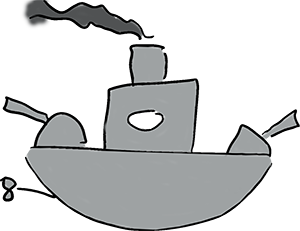
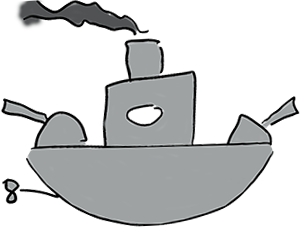
Fixed a better ocean and removed not needed images

Changed region(s): [[0.0, 0.0, 1.0, 1.0], [0.42, 0.4317, 0.57, 0.5859]]

diff --git a/SubGame/Level1.cs b/SubGame/Level1.cs
@@ -24,7 +24,8 @@ namespace SubGame
         // Set the speed of the background movement.
         private Vector2 myBackgroundSpeed = new Vector2(120, 0); //120 = speed of movement
 
-        private AnimatedBackground[] myOceans = new AnimatedBackground[7];
+        //private AnimatedBackground[] myOceans = new AnimatedBackground[7];
+        private StaticElement ocean;
 
         // All the new
         private readonly int surfaceLevel = 280;
@@ -51,13 +52,14 @@ namespace SubGame
         {
             //All the old, should be replaced with better functionality
             // Instantiate a new AnimatedBackground object for each element in the oceans array and set scale for the size of each
-            for (int i = 0; i < myOceans.Length; i++)
-            {
-                myOceans[i] = new AnimatedBackground(0.5f);
-            }
+            //for (int i = 0; i < myOceans.Length; i++)
+            //{
+            //    myOceans[i] = new AnimatedBackground(0.5f);
+            //}
 
             // All the new
             mySkies = new List<SkyElement>();
+            ocean = new StaticElement(1.0f, 0.0f, new Vector2(0, surfaceLevel));
             myBoat = new PlayerElement(1.0f, 0.01f, 0.0f, 1.5f, new Vector2(0, surfaceLevel), myGraphics);
             mySubs = new List<EnemyElement>();
             for (int i = 0; i < 3; i++)
@@ -78,13 +80,14 @@ namespace SubGame
             //All the old, should be replaced with better functionality
 
             // Load all the oceans images by calling the AnimatedBackground.LoadContent for each one of them
-            for (int i = 0; i < myOceans.Length; i++)
-            {
-                LoadBackground(myOceans[i], "Backgrounds/Ocean",
-                    new Vector2(i == 0 ? 0.0f : myOceans[i - 1].AccessPosition.X + myOceans[i - 1].AccessSize.Width, surfaceLevel));
-            }
+            //for (int i = 0; i < myOceans.Length; i++)
+            //{
+            //    LoadBackground(myOceans[i], "Backgrounds/Ocean",
+            //        new Vector2(i == 0 ? 0.0f : myOceans[i - 1].AccessPosition.X + myOceans[i - 1].AccessSize.Width, surfaceLevel));
+            //}
 
             // All the new
+            ocean.LoadContent(Content, "Backgrounds/SolidOcean");
             foreach (var sub in mySubs)
             {
                 sub.LoadContent(Content, new string[] { "Elements/SlowSub", "Elements/MediumSub", "Elements/FastSub" }, "Elements/Mine");
@@ -107,27 +110,28 @@ namespace SubGame
             }
 
             //All the old, should be replaced with better functionality
-            for (int target = 0; target < myOceans.Length; target++)
-            {
-                int tempSource = myOceans.Length - 1;
-                if (target > 0)
-                {
-                    tempSource = target - 1;
-                }
+            //for (int target = 0; target < myOceans.Length; target++)
+            //{
+            //    int tempSource = myOceans.Length - 1;
+            //    if (target > 0)
+            //    {
+            //        tempSource = target - 1;
+            //    }
 
-                if (myOceans[target].AccessPosition.X < -myOceans[target].AccessSize.Width)
-                {
-                    myOceans[target].AccessPosition = new Vector2(myOceans[tempSource].AccessPosition.X + myOceans[tempSource].AccessSize.Width,
-                        myOceans[target].AccessPosition.Y);
-                }
-            }
+            //    if (myOceans[target].AccessPosition.X < -myOceans[target].AccessSize.Width)
+            //    {
+            //        myOceans[target].AccessPosition = new Vector2(myOceans[tempSource].AccessPosition.X + myOceans[tempSource].AccessSize.Width,
+            //            myOceans[target].AccessPosition.Y);
+            //    }
+            //}
 
-            for (int i = 0; i < myOceans.Length; i++)
-            {
-                myOceans[i].AccessPosition += myGameDirection * myBackgroundSpeed * (float)aGameTime.ElapsedGameTime.TotalSeconds;
-            }
+            //for (int i = 0; i < myOceans.Length; i++)
+            //{
+            //    myOceans[i].AccessPosition += myGameDirection * myBackgroundSpeed * (float)aGameTime.ElapsedGameTime.TotalSeconds;
+            //}
 
             //All the new
+            //ocean.Update(aGameTime);
             foreach (var sky in mySkies)
             {
                 sky.Update(aGameTime);
@@ -174,14 +178,17 @@ namespace SubGame
             {
                 subs += $"{sub.Position.X:N1}x{sub.Position.Y:N1}, Speed: {sub.Speed:N1}\n";
             }
+
+            ocean.Draw(mySpriteBatch);
             statusPanel.Draw(mySpriteBatch, $"Boats hit: {myBoatsHit}\n{subs}");
+
 
             //All the old, should be replaced with better functionality
             // Call Draw for each ocean object in the oceans array
-            for (int i = 0; i < myOceans.Length; i++)
-            {
-                myOceans[i].Draw(mySpriteBatch);
-            }
+            //for (int i = 0; i < myOceans.Length; i++)
+            //{
+            //    myOceans[i].Draw(mySpriteBatch);
+            //}
 
 
             // End your drawing code here

diff --git a/SubGame/Elements/PlayerElement.cs b/SubGame/Elements/PlayerElement.cs
@@ -25,7 +25,7 @@ namespace SubGame.Elements
         {
             LoadContent(contentManager, asset);
             //Skapa och Ladda vapen
-            //            textureSinkbomb = contentManager.Load<Texture2D>(weaponAsset);
+            //textureSinkbomb = contentManager.Load<Texture2D>(weaponAsset);
         }
 
         public override void LoadContent(ContentManager contentManager, string asset)
@@ -34,7 +34,7 @@ namespace SubGame.Elements
             //Level boat at sealevel and set left and right endpoints
             leftEdge = 60;
             rightEdge = manager.PreferredBackBufferWidth - 60 - Size.Width;
-            Position = new Vector2(leftEdge, Position.Y - Size.Height * 0.66f);
+            Position = new Vector2(leftEdge, Position.Y - Size.Height * 0.7f);
         }
 
         public override void Update(GameTime gameTime)
